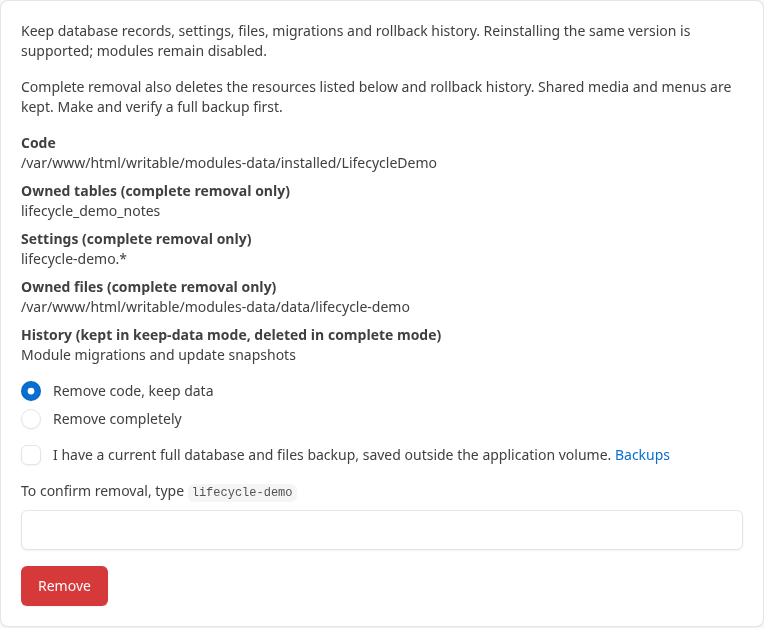
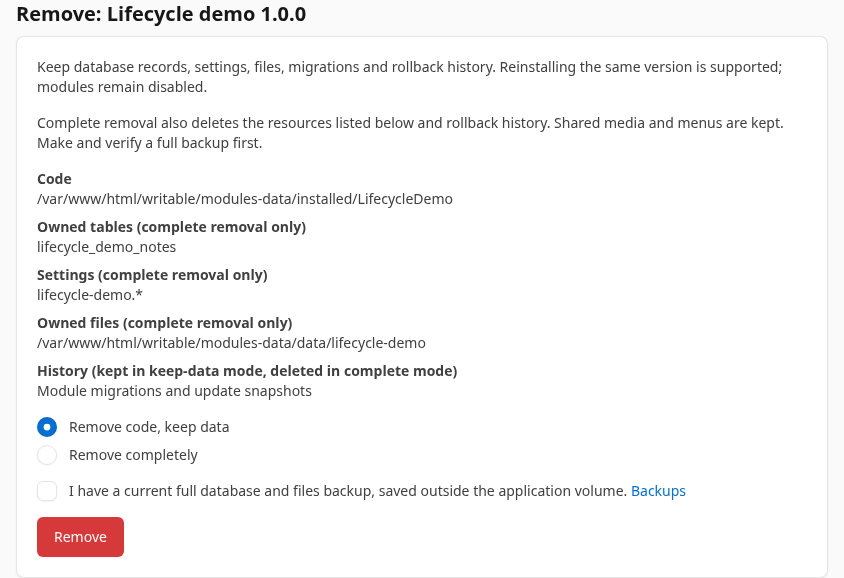
Expose catalog package actions and simplify removal confirmation

diff --git a/tests/integration/ExtensionCatalogTest.php b/tests/integration/ExtensionCatalogTest.php
@@ -125,14 +125,20 @@ PHP);
         $this->catalog->refresh(true);
     }
 
-    public function testThemePreviewRendersThroughExistingFormAndPermissionsGuardDownloads(): void
+    private function catalogOwner(): \CodeIgniter\Shield\Entities\User
     {
         foreach (['mcmsExtensionCatalog' => $this->catalog, 'mcmsModules' => $this->modules,
             'mcmsThemes' => $this->themes, 'mcmsModuleRuntime' => $this->runtime,
-            'mcmsModulePackages' => $this->modulePackages, 'mcmsThemePackages' => $this->themePackages] as $name => $service) {
+            'mcmsModulePackages' => $this->modulePackages, 'mcmsThemePackages' => $this->themePackages,
+            'mcmsExtensionRemoval' => $this->removal()] as $name => $service) {
             \Config\Services::injectMock($name, $service);
         }
-        $owner = service('mcmsInstaller')->createSuperadmin('catalog-owner@example.test', 'catalog.owner', 'Catalog-Owner-2026!', locale: 'en');
+        return service('mcmsInstaller')->createSuperadmin('catalog-owner@example.test', 'catalog.owner', 'Catalog-Owner-2026!', locale: 'en');
+    }
+
+    public function testThemePreviewRendersThroughExistingFormAndPermissionsGuardDownloads(): void
+    {
+        $owner = $this->catalogOwner();
         $this->catalog->refresh();
         csrf_hash();
         $this->actingAs($owner)->withSession()->post('/admin/extensions/mcms-atelier/prepare', ['version' => '1.1.1', csrf_token() => csrf_hash()])->assertRedirect();
@@ -156,6 +162,83 @@ PHP);
         $this->actingAs($viewer)->withSession()->get('/admin/extensions?type=module')->assertOK();
         $this->withSession()->post('/admin/extensions/lifecycle-demo/prepare', ['version' => '1.0.0', csrf_token() => csrf_hash()])->assertRedirect();
         self::assertSame($requests, $this->requests);
+    }
+
+    public function testCatalogCardsExposeDetailsAndApplicablePackageActions(): void
+    {
+        $this->publishNewModule();
+        $this->actingAs($this->catalogOwner());
+        foreach (['module' => ['lifecycle-demo', '1.0.0'], 'theme' => ['mcms-atelier', '1.1.1']] as $type => [$id, $version]) {
+            $response = $this->withSession()->get('/admin/extensions?type=' . $type);
+            $response->assertOK();
+            $body = $response->response()->getBody();
+            self::assertStringContainsString(site_url('admin/extensions/' . $id), $body);
+            self::assertStringContainsString(site_url('admin/extensions/' . $id . '/prepare'), $body);
+            self::assertStringContainsString('>' . lang('Catalog.install') . '</button>', $body);
+            self::assertStringContainsString($this->catalog->entries()[$id]['author'], $body);
+            self::assertStringContainsString('MIT', $body);
+            self::assertStringNotContainsString('admin/extensions/' . $type . '/' . $id . '/remove', $body);
+            $preview = $this->catalog->prepare($id, $version);
+            ($type === 'module' ? $this->modulePackages : $this->themePackages)->install($preview['token'], $preview['sha256']);
+            $response = $this->withSession()->get('/admin/extensions?type=' . $type);
+            $response->assertOK();
+            $body = $response->response()->getBody();
+            self::assertStringContainsString('>' . lang('Catalog.update') . '</button>', $body);
+            self::assertStringContainsString(site_url('admin/extensions/' . $type . '/' . $id . '/remove'), $body);
+            self::assertStringContainsString('name="version" value="' . $this->catalog->entries()[$id]['available']['version'] . '"', $body);
+        }
+        $this->modules->enable('lifecycle-demo');
+        $body = $this->withSession()->get('/admin/extensions?type=module')->response()->getBody();
+        self::assertStringContainsString(lang('Catalog.disableFirst'), $body);
+        self::assertMatchesRegularExpression('/<button[^>]+disabled[^>]*>' . preg_quote(lang('Catalog.update'), '/') . '<\/button>/', $body);
+
+        $cache = $this->catalog->cache();
+        foreach ($cache['extensions'] as &$entry) {
+            if ($entry['id'] === 'lifecycle-demo') {
+                foreach ($entry['versions'] as &$release) {
+                    $release['mcms'] = '^99.0';
+                }
+                unset($release);
+            }
+        }
+        unset($entry);
+        PackageState::write($this->dir . '/modules-data/catalog/cache.json', $cache);
+        $body = $this->withSession()->get('/admin/extensions?type=module')->response()->getBody();
+        self::assertStringContainsString(lang('Catalog.incompatible'), $body);
+        self::assertStringNotContainsString(site_url('admin/extensions/lifecycle-demo/prepare'), $body);
+    }
+
+    public function testRemovalFormsRequireOnlyBackupAcknowledgementAndMode(): void
+    {
+        $this->actingAs($this->catalogOwner());
+        $this->catalog->refresh();
+        foreach (['module' => 'lifecycle-demo', 'theme' => 'mcms-atelier'] as $type => $id) {
+            foreach (['keep', 'purge'] as $mode) {
+                $preview = $this->catalog->prepare($id, $type === 'module' ? '1.0.0' : '1.1.2');
+                ($type === 'module' ? $this->modulePackages : $this->themePackages)->install($preview['token'], $preview['sha256']);
+                if ($type === 'module') {
+                    $this->modules->enable($id);
+                }
+                $path = '/admin/extensions/' . $type . '/' . $id . '/remove';
+                $response = $this->withSession()->get($path);
+                $response->assertOK();
+                $body = $response->response()->getBody();
+                self::assertStringNotContainsString('name="confirm"', $body);
+                self::assertMatchesRegularExpression('/<input[^>]+name="backup"[^>]+required/', $body);
+                $preview = $this->removal()->preview($type, $id);
+                $fields = ['mode' => $mode, 'fingerprint' => $preview['fingerprint']];
+                $this->withSession()->post($path, [...$fields, csrf_token() => csrf_hash()])->assertRedirect();
+                self::assertSame(lang('Extensions.backupRequired'), session()->getFlashdata('error'));
+                self::assertDirectoryExists($preview['manifest']->path);
+                $this->withSession()->post($path, [...$fields, 'mode' => 'invalid', 'backup' => '1', csrf_token() => csrf_hash()])->assertRedirect();
+                self::assertSame(lang('Extensions.confirmRequired'), session()->getFlashdata('error'));
+                self::assertDirectoryExists($preview['manifest']->path);
+                $this->withSession()->post($path, [...$fields, 'backup' => '1', csrf_token() => csrf_hash()])
+                    ->assertRedirectTo('/admin/' . $type . 's');
+                self::assertDirectoryDoesNotExist($preview['manifest']->path);
+                self::assertSame($mode === 'keep' ? 'retained' : 'available', $this->catalog->entries()[$id]['state']);
+            }
+        }
     }
 
     public function testRepositoryCatalogValidatorAndIndexAgree(): void

diff --git a/app/Views/admin/catalog/index.php b/app/Views/admin/catalog/index.php
@@ -23,13 +23,27 @@
 </form>
 <div class="row row-cards">
 <?php foreach ($entries as $entry): ?>
-    <div class="col-md-6 col-xl-4"><div class="card h-100">
+    <div class="col-md-6 col-xl-4"><div class="card h-100" data-catalog-id="<?= esc($entry['id'], 'attr') ?>">
     <?php if ($entry['screenshots'] !== []): ?><img class="card-img-top" src="<?= esc($entry['screenshots'][0], 'attr') ?>" alt="<?= esc($entry['name'], 'attr') ?>" loading="lazy" style="aspect-ratio:16/10;object-fit:cover"><?php endif ?>
-    <div class="card-body d-flex flex-column"><h3 class="card-title"><a href="<?= site_url('admin/extensions/' . rawurlencode($entry['id'])) ?>"><?= esc($entry['name']) ?></a></h3>
+    <div class="card-body d-flex flex-column text-break"><h3 class="card-title"><a href="<?= site_url('admin/extensions/' . rawurlencode($entry['id'])) ?>"><?= esc($entry['name']) ?></a></h3>
     <p class="text-secondary"><?= esc($entry['description']) ?></p>
+    <p class="small text-secondary"><?= esc($entry['author']) ?> · <?= esc($entry['license']) ?> · <a href="<?= esc($entry['project'], 'attr') ?>" target="_blank" rel="noopener noreferrer"><?= esc(lang('Catalog.source')) ?></a></p>
+    <?php if ($entry['tags'] !== []): ?><div class="d-flex gap-1 flex-wrap mb-3"><?php foreach ($entry['tags'] as $entryTag): ?><span class="badge bg-secondary-lt"><?= esc($entryTag) ?></span><?php endforeach ?></div><?php endif ?>
     <div class="mb-2"><span class="badge <?= $entry['update'] ? 'bg-warning-lt' : 'bg-secondary-lt' ?>"><?= esc(lang('Catalog.state_' . $entry['state'])) ?></span></div>
     <div class="small mb-3"><?= esc(lang('Catalog.current')) ?>: <?= esc($entry['installed'] ?? '—') ?> · <?= esc(lang('Catalog.available')) ?>: <?= esc($entry['available']['version'] ?? $entry['version']) ?></div>
-    <a class="btn btn-outline-primary mt-auto" href="<?= site_url('admin/extensions/' . rawurlencode($entry['id'])) ?>"><?= esc(lang('Catalog.details')) ?></a>
+    <?php if ($entry['available'] !== null): ?>
+    <div class="small text-secondary mb-3">mCMS <?= esc($entry['available']['mcms']) ?><?php if ($entry['available']['requires'] !== []): ?> · <?= esc(lang('MCMS.modules.dependencies')) ?>: <?= esc(implode(', ', array_map(static fn ($dep) => is_array($dep) ? $dep['id'] . ' ' . ($dep['version'] ?? '*') : $dep, $entry['available']['requires']))) ?><?php endif ?></div>
+    <?php else: ?><div class="alert alert-warning"><?= esc(lang('Catalog.incompatible')) ?>: <?= esc($entry['reason']) ?></div><?php endif ?>
+    <?php if ($entry['type'] === 'module' && $entry['enabled'] && $entry['update']): ?><p class="small text-secondary"><?= esc(lang('Catalog.disableFirst')) ?></p><?php endif ?>
+    <div class="d-flex gap-2 flex-wrap mt-auto">
+        <a class="btn btn-outline-primary" href="<?= site_url('admin/extensions/' . rawurlencode($entry['id'])) ?>"><?= esc(lang('Catalog.details')) ?></a>
+        <?php if ($entry['available'] !== null && ($entry['installed'] === null || $entry['update'])): ?>
+        <form class="mw-100" method="post" action="<?= site_url('admin/extensions/' . rawurlencode($entry['id']) . '/prepare') ?>"><?= csrf_field() ?><input type="hidden" name="version" value="<?= esc($entry['available']['version'], 'attr') ?>"><button type="submit" class="btn btn-primary text-wrap" <?= $entry['type'] === 'module' && $entry['enabled'] ? 'disabled' : '' ?>><?= esc(lang('Catalog.' . ($entry['installed'] !== null ? 'update' : ($entry['retained'] ? 'restore' : 'install')))) ?></button></form>
+        <?php endif ?>
+        <?php if ($entry['installed'] !== null): ?>
+        <a class="btn btn-outline-danger" href="<?= site_url('admin/extensions/' . $entry['type'] . '/' . rawurlencode($entry['id']) . '/remove') ?>"><?= esc(lang('Extensions.remove')) ?></a>
+        <?php endif ?>
+    </div>
     </div></div></div>
 <?php endforeach ?>
 <?php if ($entries === []): ?><div class="col-12"><div class="card"><div class="card-body"><?= esc(lang('Catalog.empty')) ?></div></div></div><?php endif ?>

diff --git a/app/Language/ru/Extensions.php b/app/Language/ru/Extensions.php
@@ -7,7 +7,7 @@ return [
     'purgeHint' => 'Полное удаление также очищает перечисленные ниже ресурсы и историю откатов. Общие медиафайлы и меню сохраняются. Сначала создайте и проверьте полную резервную копию.',
     'blocked' => 'Удалению препятствуют:', 'activeTheme' => 'активная тема (сначала активируйте другую)',
     'backupRequired' => 'У меня есть актуальная полная копия БД и файлов, сохранённая вне тома приложения.',
-    'confirmRequired' => 'Выберите режим и введите точный ID пакета.', 'typeId' => 'Для подтверждения удаления введите',
+    'confirmRequired' => 'Выберите режим удаления.',
     'removed' => 'Расширение удалено.', 'code' => 'Код', 'tables' => 'Собственные таблицы (только полное удаление)',
     'settings' => 'Настройки (только полное удаление)', 'files' => 'Собственные файлы (только полное удаление)',
     'history' => 'История (сохраняется с данными, удаляется при полном удалении)', 'recovery' => 'Восстановление операции удаления',

diff --git a/app/Views/admin/extensions/remove.php b/app/Views/admin/extensions/remove.php
@@ -19,9 +19,7 @@
         <input type="hidden" name="fingerprint" value="<?= esc($fingerprint, 'attr') ?>">
         <label class="form-check mb-2"><input class="form-check-input" type="radio" name="mode" value="keep" checked><span class="form-check-label"><?= esc(lang('Extensions.keep')) ?></span></label>
         <label class="form-check mb-3"><input class="form-check-input" type="radio" name="mode" value="purge" <?= $purgeError !== null ? 'disabled' : '' ?>><span class="form-check-label"><?= esc(lang('Extensions.purge')) ?></span></label>
-        <label class="form-check mb-3"><input class="form-check-input" type="checkbox" name="backup" value="1"><span class="form-check-label"><?= esc(lang('Extensions.backupRequired')) ?> <a href="<?= site_url('admin/backups') ?>"><?= esc(lang('MCMS.backups.title')) ?></a></span></label>
-        <label class="form-label" for="confirm-id"><?= esc(lang('Extensions.typeId')) ?> <code><?= esc($id) ?></code></label>
-        <input class="form-control mb-3" id="confirm-id" name="confirm" required autocomplete="off">
+        <label class="form-check mb-3"><input class="form-check-input" type="checkbox" name="backup" value="1" required><span class="form-check-label"><?= esc(lang('Extensions.backupRequired')) ?> <a href="<?= site_url('admin/backups') ?>"><?= esc(lang('MCMS.backups.title')) ?></a></span></label>
         <button type="submit" class="btn btn-danger"><?= esc(lang('Extensions.remove')) ?></button>
     </form>
 <?php endif ?>

diff --git a/app/Controllers/Admin/ExtensionRemoval.php b/app/Controllers/Admin/ExtensionRemoval.php
@@ -19,8 +19,11 @@ final class ExtensionRemoval extends BaseAdminController
             $removal = service('mcmsExtensionRemoval');
             $preview = $removal->preview($type, $id);
             if (strtolower($this->request->getMethod()) === 'post') {
-                if ($this->request->getPost('confirm') !== $id || ! in_array($this->request->getPost('mode'), ['keep', 'purge'], true)) {
+                if (! in_array($this->request->getPost('mode'), ['keep', 'purge'], true)) {
                     throw new RuntimeException(lang('Extensions.confirmRequired'));
+                }
+                if ($this->request->getPost('backup') !== '1') {
+                    throw new RuntimeException(lang('Extensions.backupRequired'));
                 }
                 $removal->remove($type, $id, $this->request->getPost('mode') === 'purge',
                     (string) $this->request->getPost('fingerprint'), $this->request->getPost('backup') === '1');

diff --git a/app/Language/en/Extensions.php b/app/Language/en/Extensions.php
@@ -7,7 +7,7 @@ return [
     'purgeHint' => 'Complete removal also deletes the resources listed below and rollback history. Shared media and menus are kept. Make and verify a full backup first.',
     'blocked' => 'Removal is blocked by:', 'activeTheme' => 'the active theme (activate another theme first)',
     'backupRequired' => 'I have a current full database and files backup, saved outside the application volume.',
-    'confirmRequired' => 'Confirm the mode and type the exact package ID.', 'typeId' => 'To confirm removal, type',
+    'confirmRequired' => 'Choose the removal mode.',
     'removed' => 'Extension removed.', 'code' => 'Code', 'tables' => 'Owned tables (complete removal only)',
     'settings' => 'Settings (complete removal only)', 'files' => 'Owned files (complete removal only)',
     'history' => 'History (kept in keep-data mode, deleted in complete mode)', 'recovery' => 'Extension removal recovery',

diff --git a/docs/EXTENSIONS.md b/docs/EXTENSIONS.md
@@ -5,8 +5,10 @@ PHP code, not a sandbox. Built-in modules/themes cannot be removed.
 
 ## Removal and reinstallation
 
-Use the Remove action in Modules or Themes. The confirmation page lists code,
-owned tables, settings, scoped files and rollback history. Type the package ID.
+Use the Remove action in the extension catalog, Modules or Themes. The confirmation
+page lists code, owned tables, settings, scoped files and rollback history. Choose
+the removal mode and check the backup acknowledgement; typing the package ID is
+not required. Both modes require backup acknowledgement in the administration UI.
 
 - **Keep data** disables a module, removes code and keeps its registry version,
   schema version, settings, scoped files, migration history and update snapshots.
@@ -114,6 +116,12 @@ This avoids large binaries in Git history; it does not change the installer.
 Project/source links can point to another HTTPS site; the server does not fetch
 them. Screenshots stay in the extension's own `catalog/.../screenshots/` folder.
 The current catalog includes Atelier 1.1.1/1.1.2 and Lifecycle demo 1.0.0.
+
+Catalog cards show the author, license, categories, installed/available versions
+and compatible Core/module requirements. Details, install, update and removal
+actions are available directly in the list when applicable. Install/update still
+opens the standard package review; an enabled module must be disabled before its
+update can be prepared.
 
 ## Publication through a pull request
 
